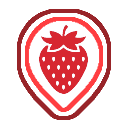
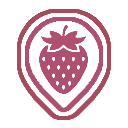
Updated images and main theme colour

Changed region(s): [[0.125, 0.0625, 0.875, 0.9375]]

diff --git a/src/main/resources/css/styles.css b/src/main/resources/css/styles.css
@@ -1,9 +1,11 @@
 .root {
-    -primary-color: #86CA82;
-    -primary-color-highlight: #7cbf82;
+    -primary-color: #67AF76; /* defined in ThemeService */
+    -primary-color-highlight: #7cbf82; /* defined in ThemeService */
     -primary-bg-color: #ffffff;
     -secondary-bg-color: #dcdcdc;
     -text-color: #1a1a1a;
+    -fx-background-color: -secondary-bg-color;
+    -fx-text-fill: -text-color;
 
     /* Journal / note dialog */
     -note-bg: #112212;
@@ -12,8 +14,7 @@
     -note-accent-hover: #4a7c59;
     -note-accent-pressed: #345940;
     -note-border: #3a5a44;
-    -fx-background-color: -secondary-bg-color;
-    -fx-text-fill: -text-color;
+
 }
 
 /* ---------- Title bar ---------- */
@@ -122,6 +123,7 @@
     -fx-background-color: -primary-bg-color;
     -fx-background-radius: 8;
 }
+
 .color-picker {
     -fx-background-color: -primary-bg-color;
     -fx-border-color: -secondary-bg-color;

diff --git a/src/main/java/seng202/team4/services/ThemeService.java b/src/main/java/seng202/team4/services/ThemeService.java
@@ -11,12 +11,14 @@ import seng202.team4.gui.utilities.CssUtilities;
  * @author Team 4
  */
 public class ThemeService {
+    private final String STARTINGPRIMARY = "#67AF76";
+
     private static final String DARK_THEME_PATH = "/css/dark-theme.css";
 
     private final Scene scene;
     private final GridPane sceneRoot;
     private WebEngine webEngine;
-    private Color primaryColor = Color.web("#86CA82");
+    private Color primaryColor = Color.web(STARTINGPRIMARY);
     private boolean darkMode;
 
     /**
@@ -53,7 +55,7 @@ public class ThemeService {
     public void setPrimaryColor(Color color) {
         primaryColor = color;
         String hex = CssUtilities.toHex(color);
-        String highlightHex = CssUtilities.toHex(color.deriveColor(0, 1, 0.9, 1));
+        String highlightHex = CssUtilities.toHex(color.deriveColor(20, 1, 0.85, 1));
         sceneRoot.setStyle(String.format("-primary-color: %s; -primary-color-highlight: %s;", hex, highlightHex));
         CssUtilities.refreshStylesheets(scene);
 
